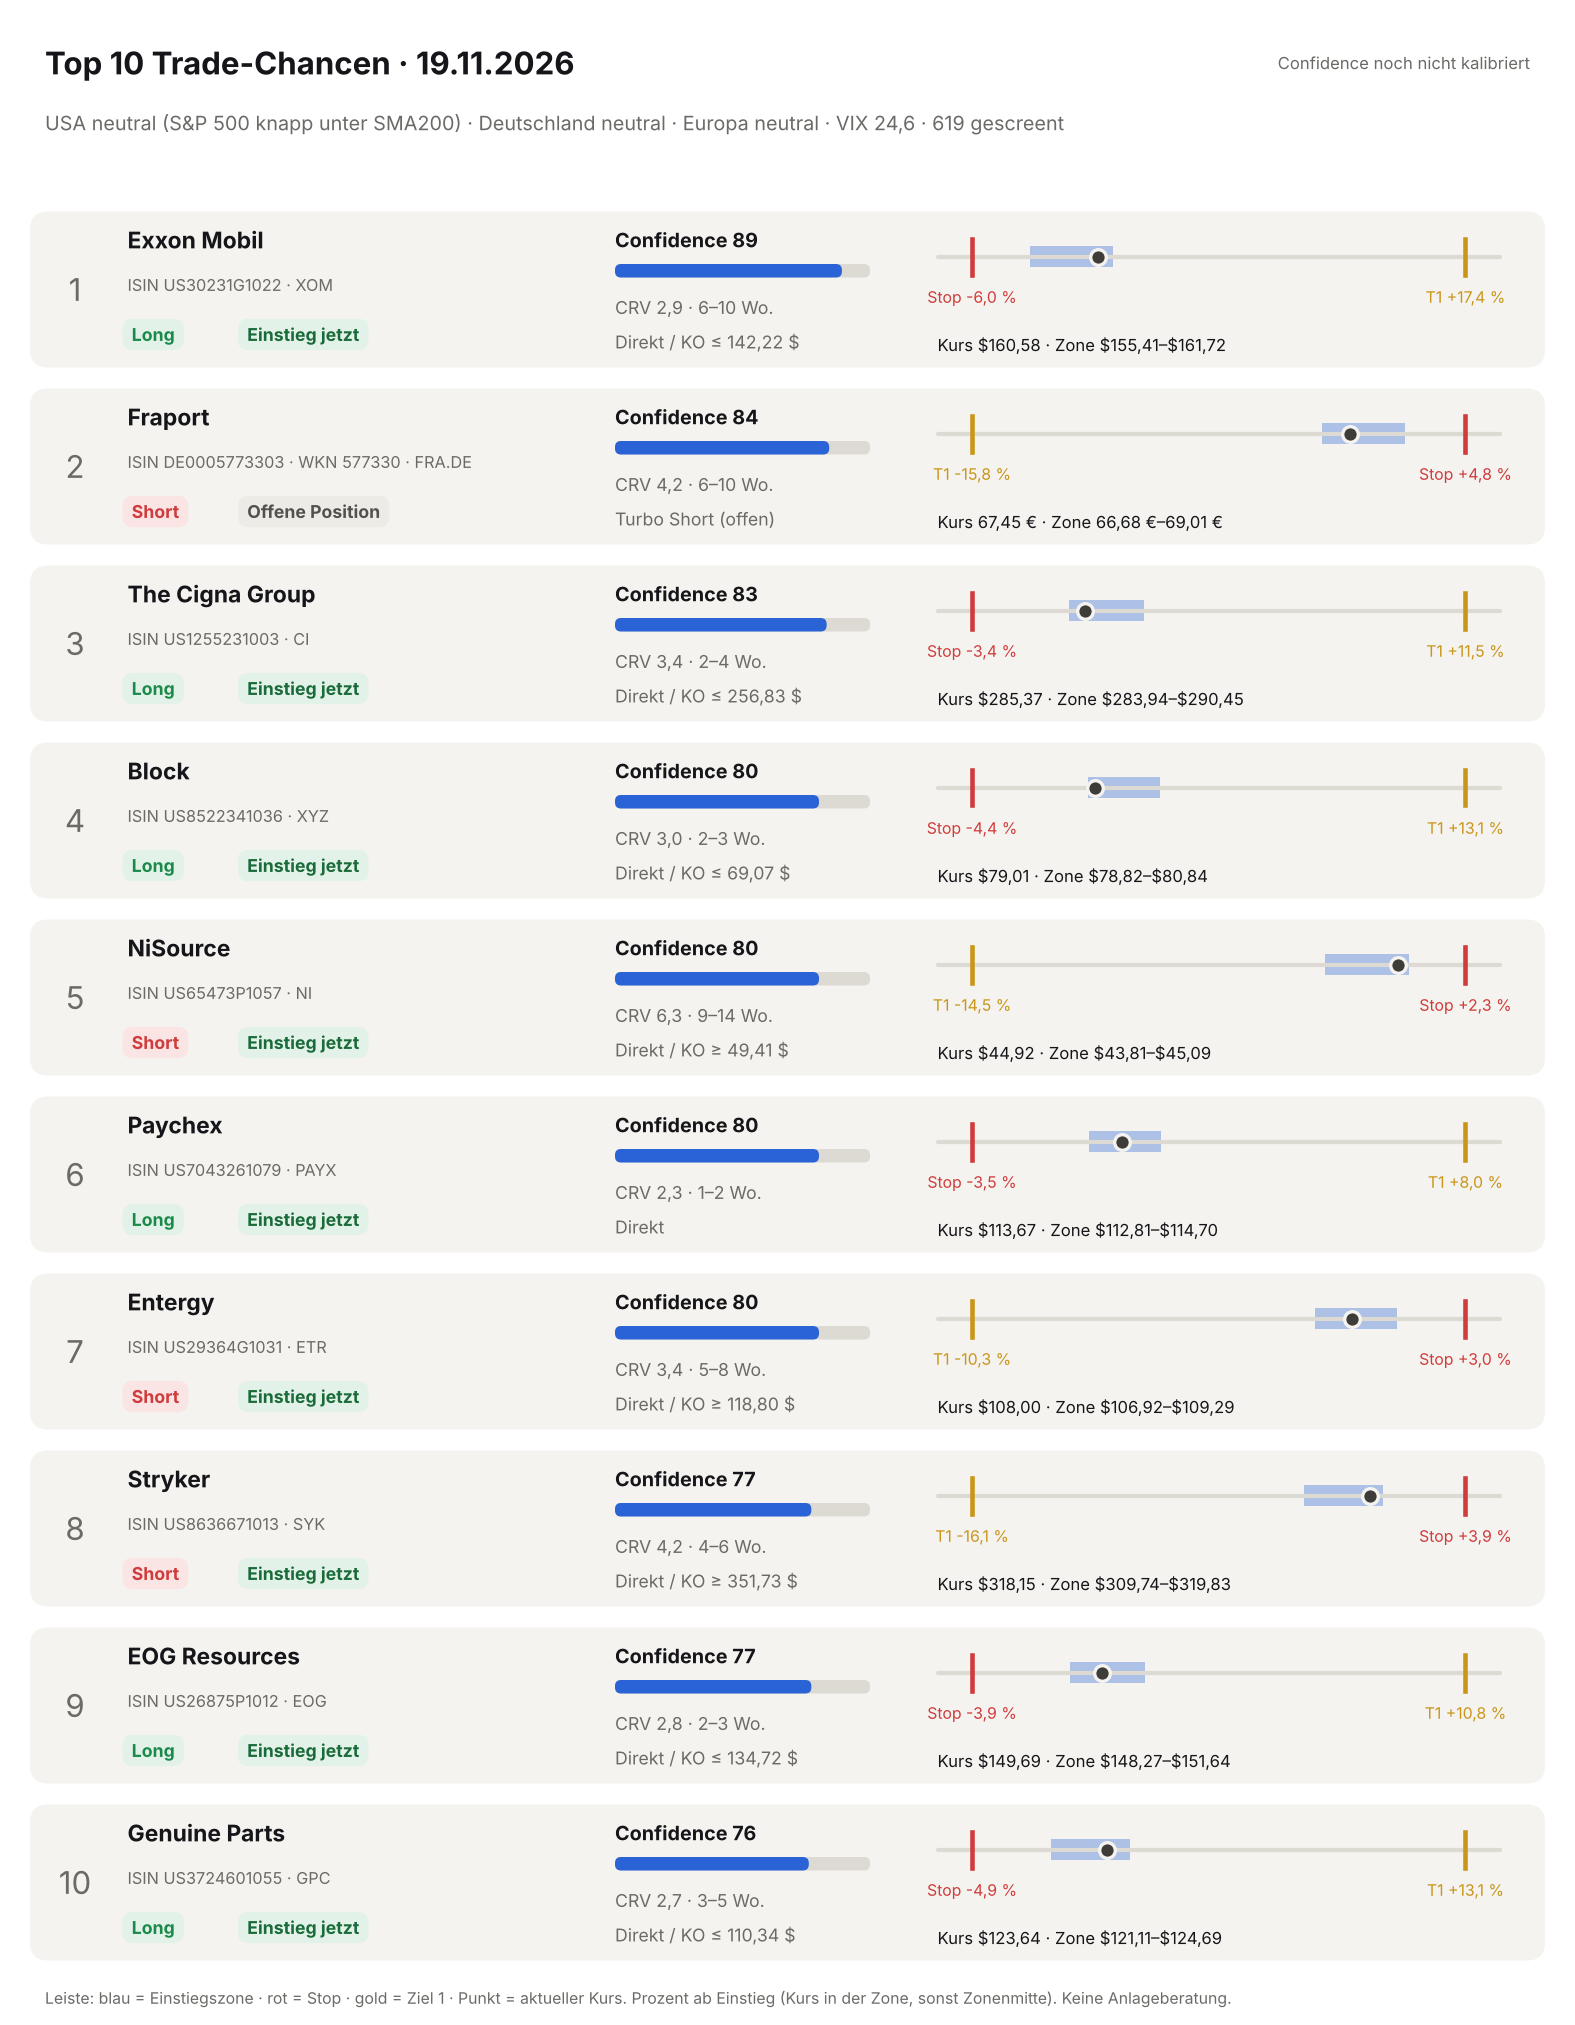
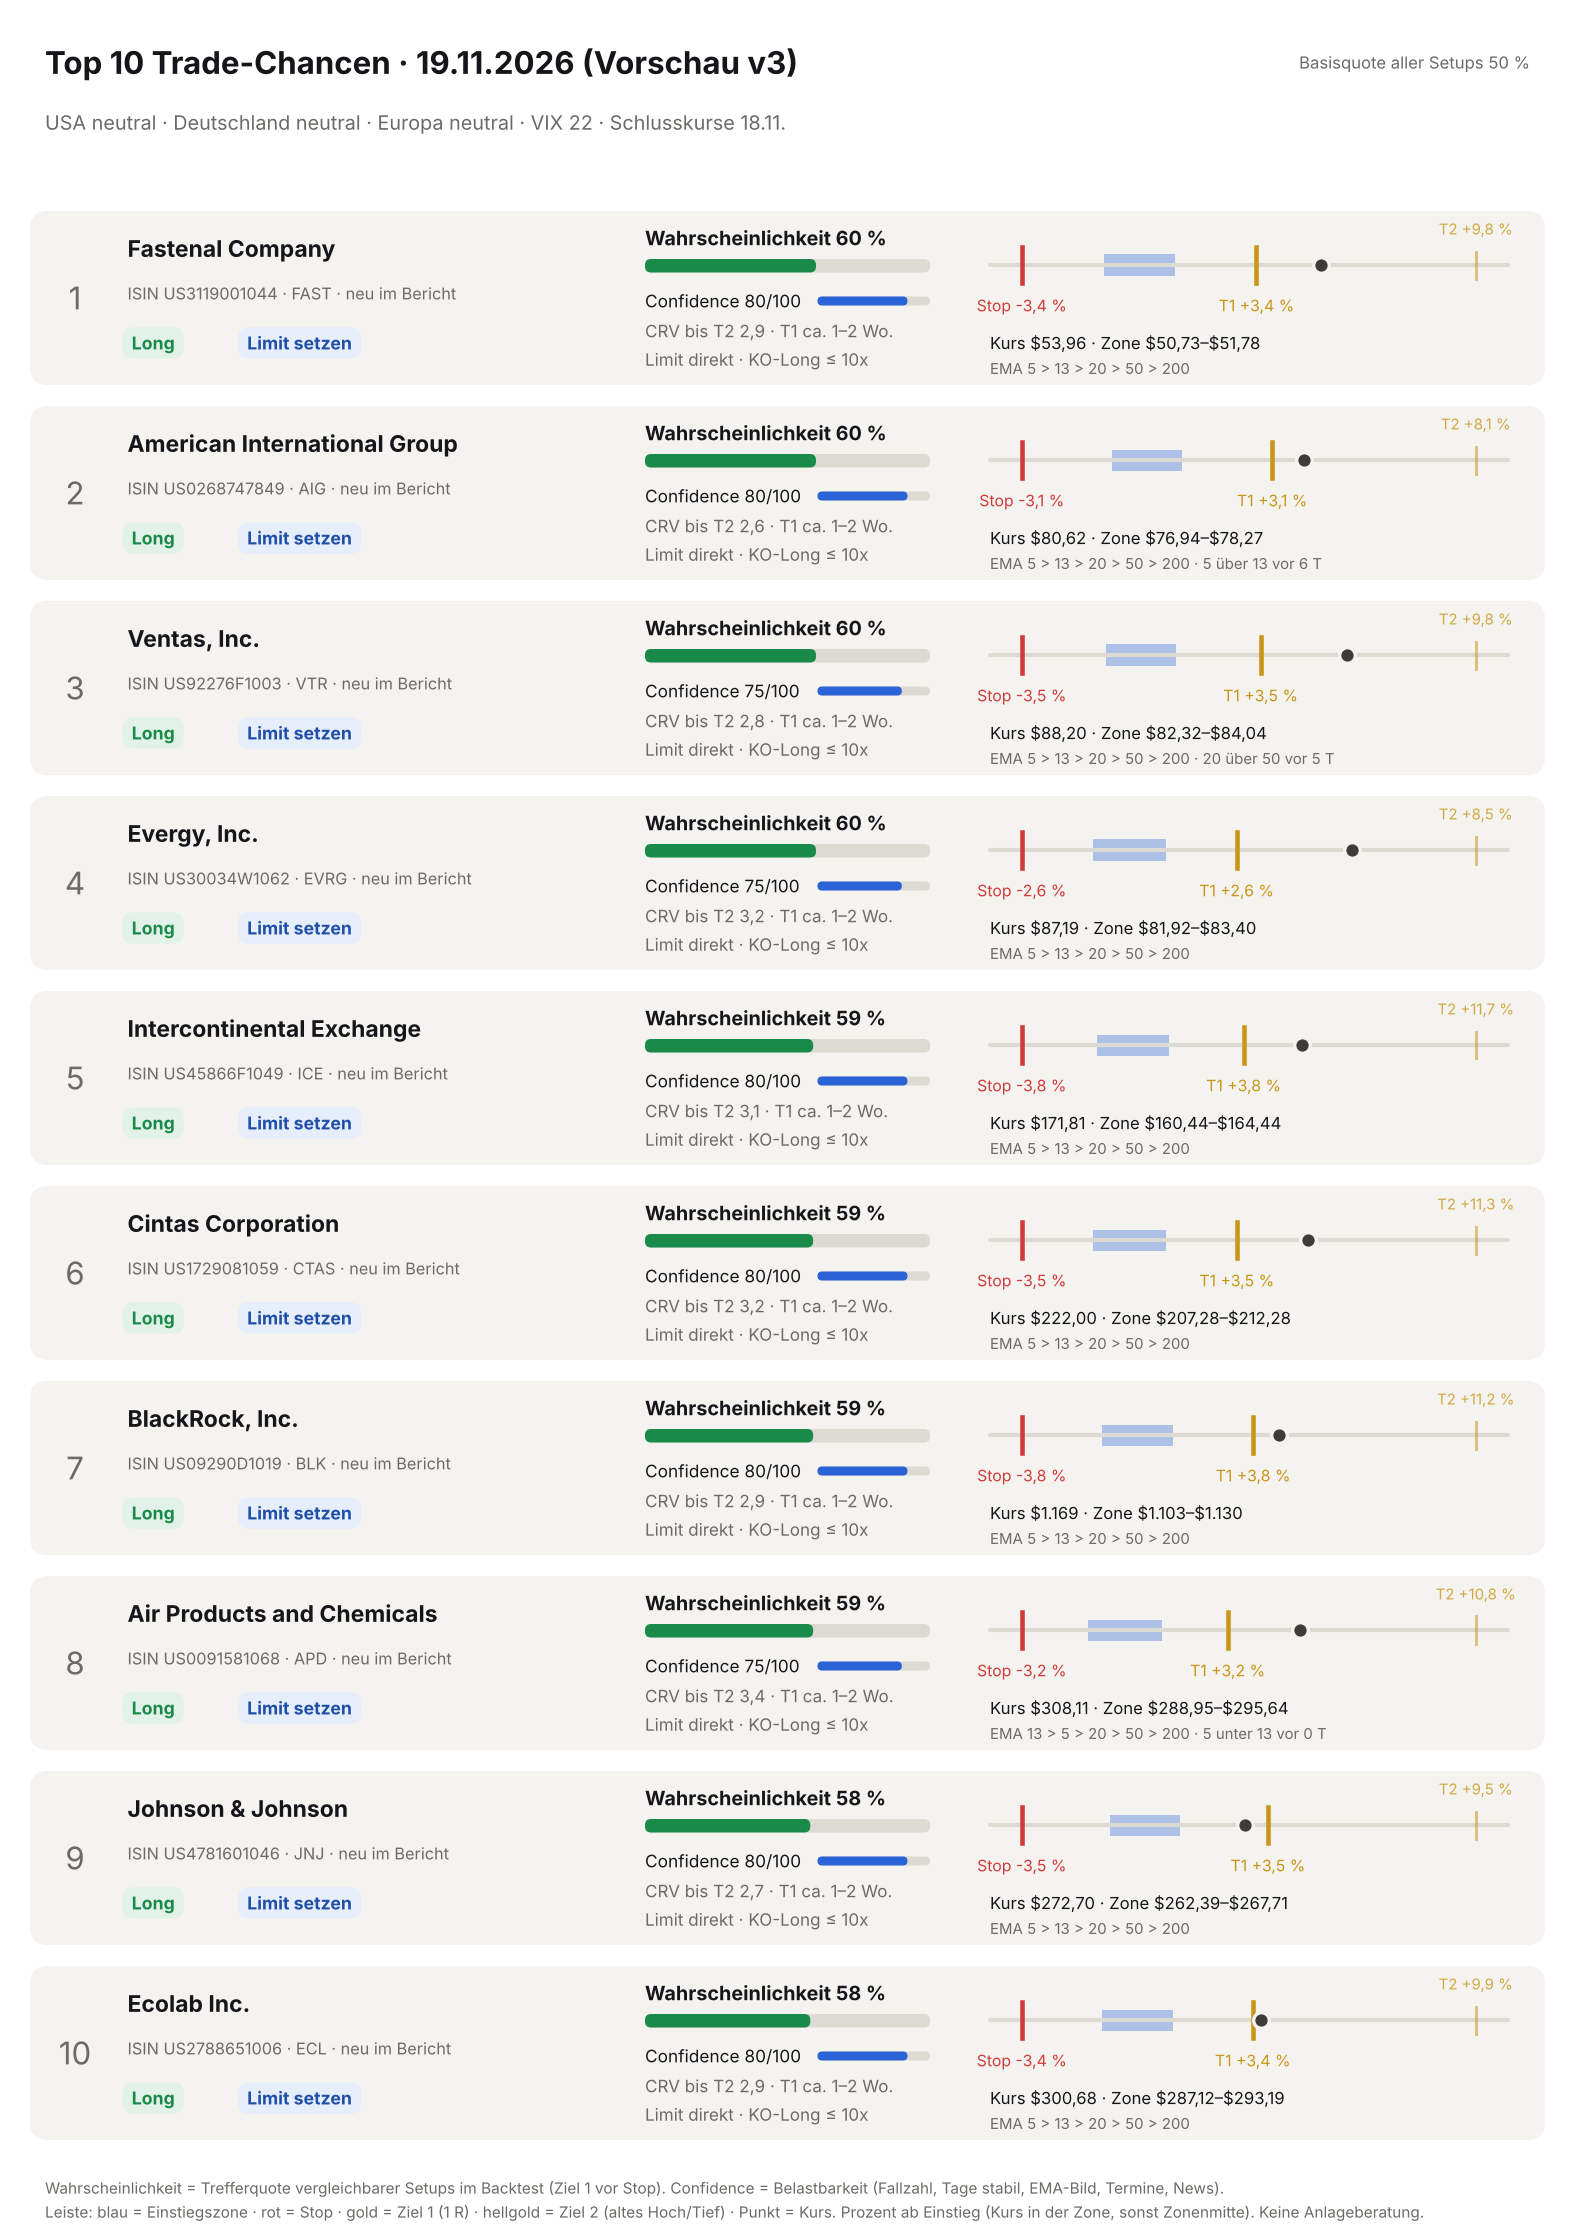
Vorschau Top-Liste v3 (19.11.), Namenskürzung in der Grafik
Claude-Session: https://claude.ai/code/session_01Ji6PYrHGHcm44vWbGbSMWm

diff --git a/render_report.py b/render_report.py
@@ -13,6 +13,7 @@ Optional auf oberster Ebene: base_rate (%), removed: [{name, reason}]
 from __future__ import annotations
 
 import json
+import re
 import sys
 
 import matplotlib
@@ -87,6 +88,8 @@ def render(report: dict, out: str) -> None:
 
         # Name, Kennung, Chips
         name = p.get("name") or p.get("ticker")
+        if len(name) > 30:
+            name = re.sub(r",?\s+(Inc|Incorporated|Corporation|Corp|Company|Co|plc|SE|AG|N\.V|S\.A)\.?$", "", name)
         if len(name) > 30:
             name = name[:29] + "…"
         ax.text(0.85, cy + 0.33, name, fontsize=11, fontweight="bold", color=INK, va="center")
